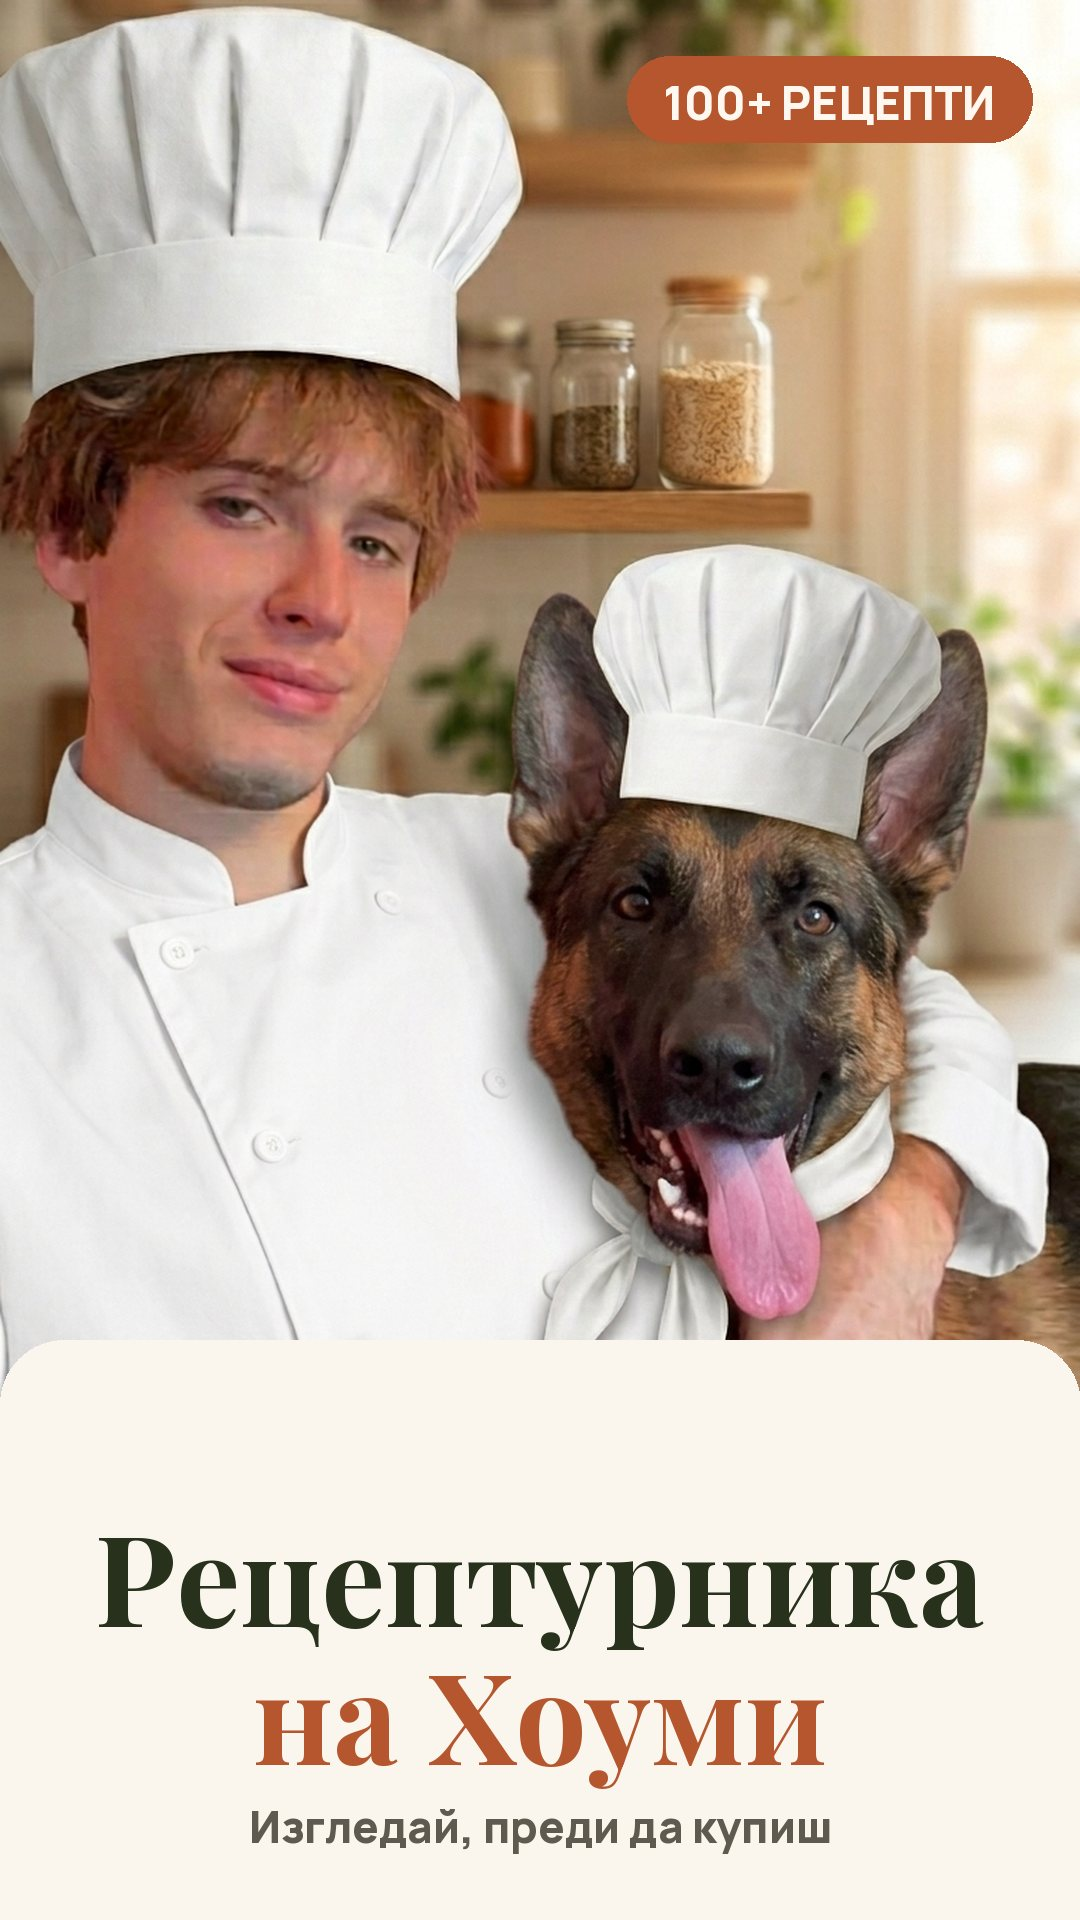
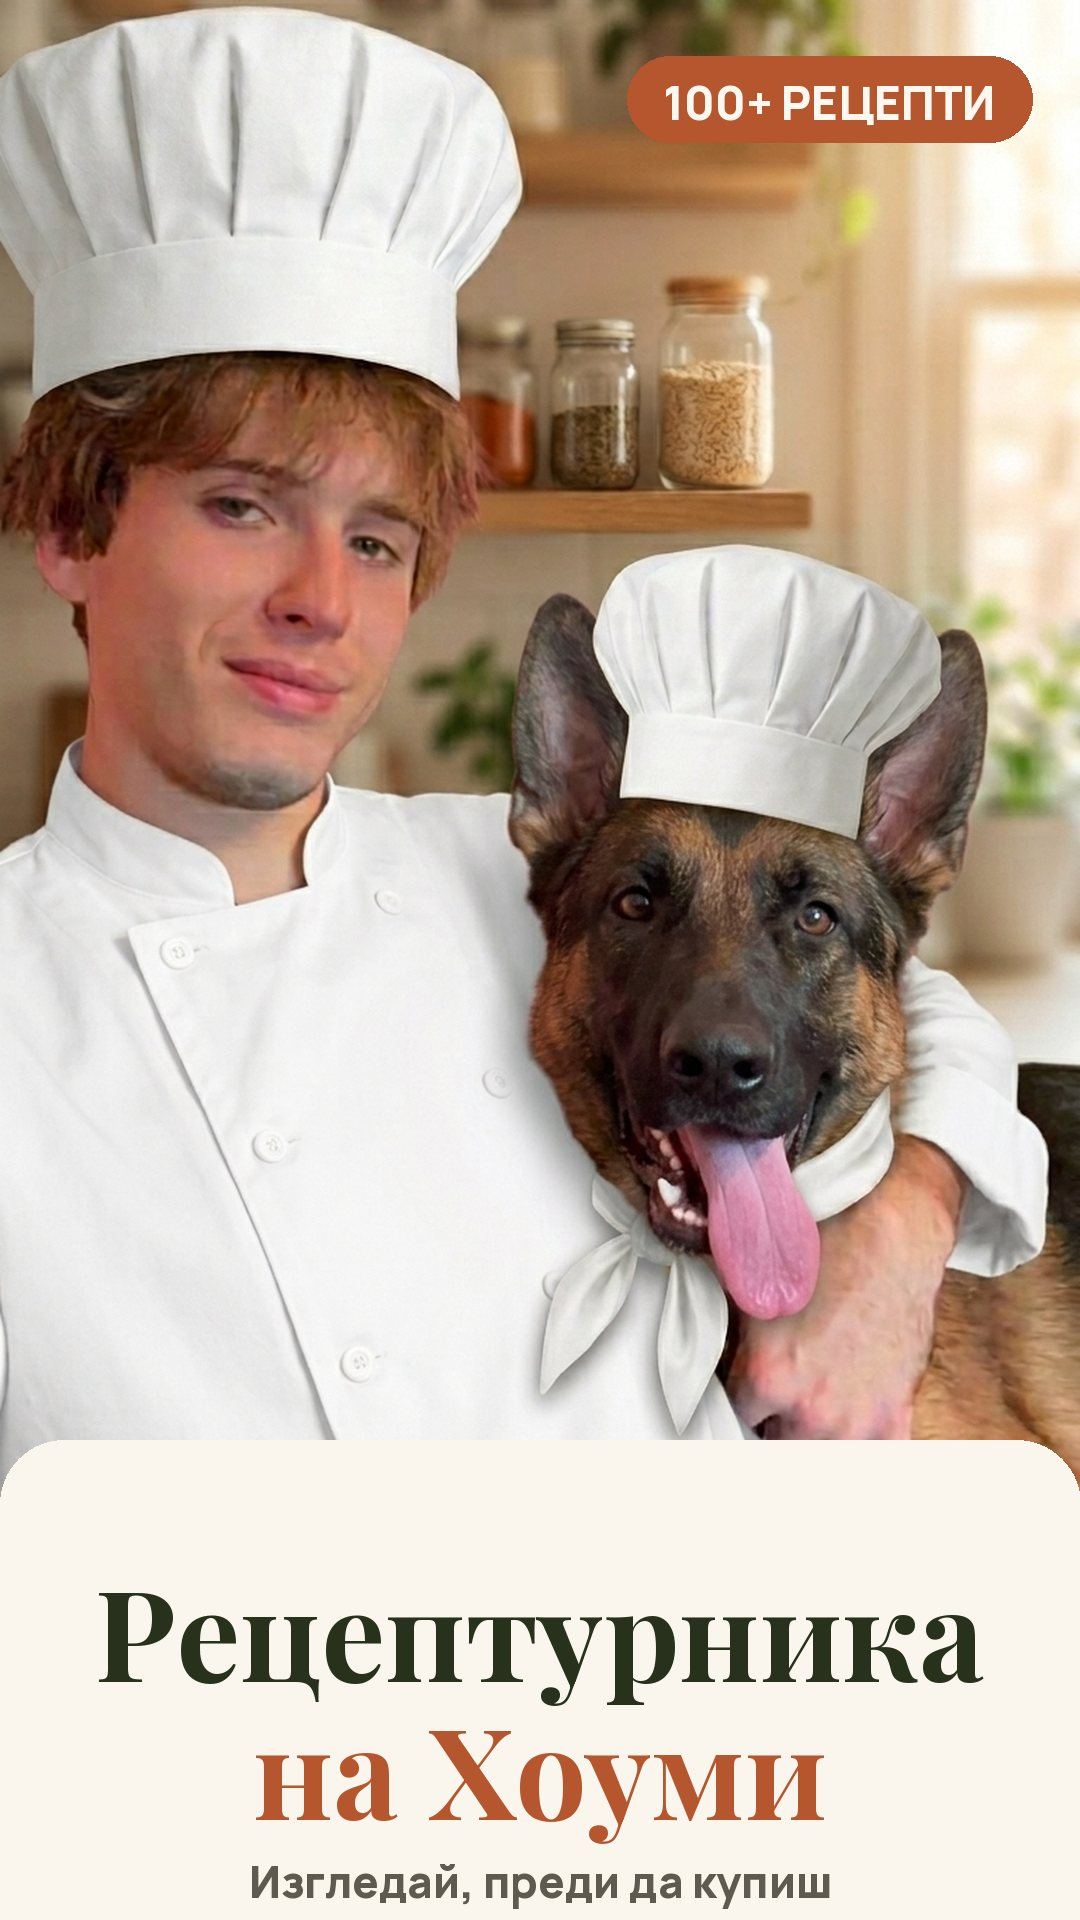
Intro cover: less empty space below the title
Claude-Session: https://claude.ai/code/session_01SzKh2J7H7fcAom4pmKcnPD

diff --git a/app/globals.css b/app/globals.css
@@ -4660,18 +4660,18 @@ section.calc-section {
 }
 
 /* Designed intro cover (public/intro-poster.jpg): photo on top, cream title
-   panel below; the play button sits on the seam (1340/1920 of the height),
+   panel below; the play button sits on the seam (1440/1920 of the height),
    left of Homie so it never covers his face. */
 .hero-video.branded .hero-video-play {
   background: none;
 }
 .hero-video.branded .hero-video-btn {
   position: absolute;
-  left: 27%;
-  top: 69.79%;
+  left: 25%;
+  top: 75%;
   transform: translate(-50%, -50%);
-  width: 76px;
-  height: 76px;
+  width: 64px;
+  height: 64px;
   background: var(--olive-deep);
   color: #fff;
   box-shadow: 0 0 0 5px var(--bg), 0 12px 28px rgba(0, 0, 0, 0.3);
